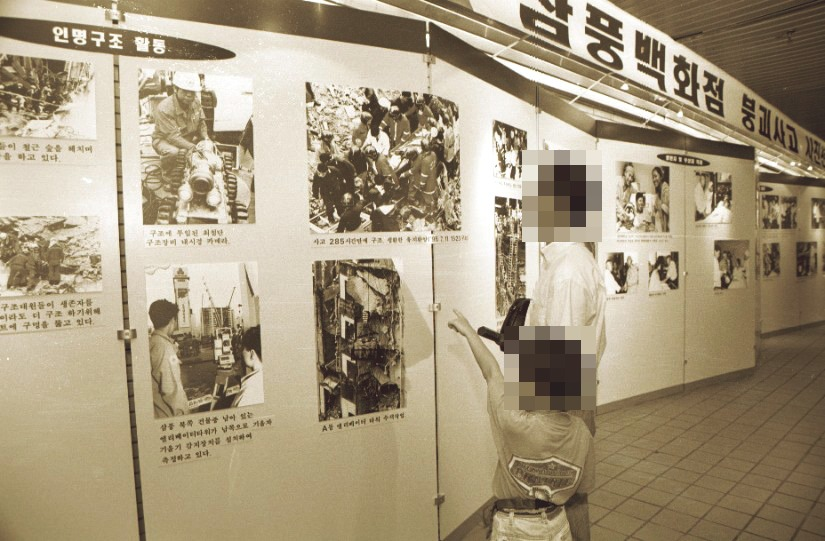
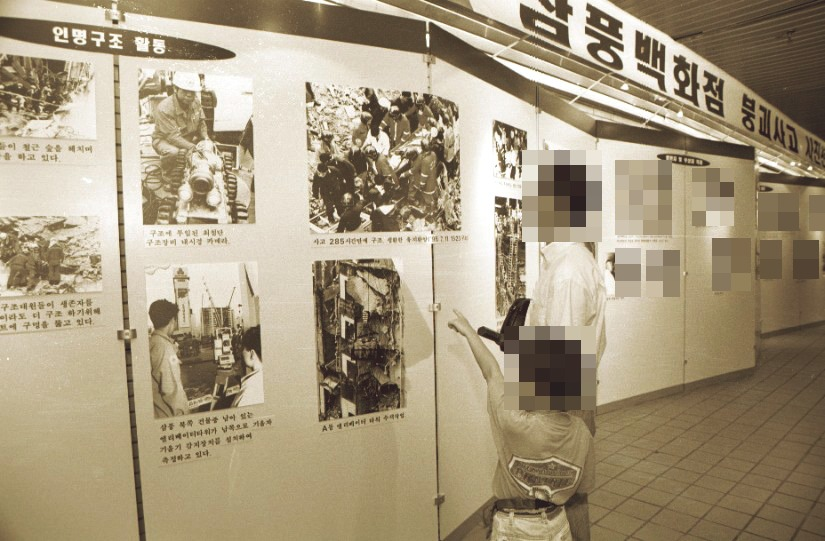
23本目 ⑤c' 疑いの決着と直す: 原寸の切り出し16枚で疑い39件を未決0に・直したのは16カット - 右の札（m23）が崩れていない B棟を指して読めた所: c218「A棟の閉めた所」・c407「まずA棟の屋上と5階の床」＋重さの札を屋上と5階の札の下へ・c614 札を色の階の高さへ（✕ も）・c513 札を7月9日のマスの左へ - 副題を写っている物に: c405（梁→ピンクの外壁）・c523（崩れた2つの棟→崩れ残った建物の両端）・c214・c714（傾いた柱）・c608（工事中の別のビル）・cb03（名前と顔を隠した掲示板）・c609／cc09 を書き分け・c201 見出し「建物の

Changed region(s): [[0.7273, 0.2957, 1.0, 0.5619]]

diff --git a/tools/cuts/c2.py b/tools/cuts/c2.py
@@ -16,7 +16,7 @@ P = ss.P
 
 PLAN = {
     'c201': dict(kind='写真',
-               plan='S52399:全体｜一覧の種類：実写｜見せ方：全面｜副題：崩れる前の三豊百貨店の外観（1995年6月）｜動き：引く（建物の全体へ）｜権利：A（公共ヌリ第1類型＋CC BY 4.0）｜出典の行：写真：ソウル特別市／ソウル研究院（서울연구데이터서비스）（公共ヌリ第1類型・CC BY 4.0）｜注：A。c101 と同じ写真の別の寄り（c101＝看板へ寄る／c201＝全体へ引く）。⑤b-7（10-19）：c101 と同じ副題だった＝終わりのコマは建物の外観の全体＝「外観」で書き分けた｜台本の画：実写 研究院 node/52399（A・c101 と別の寄り＝2つの棟と真ん中のつなぎの建物＝副題「崩れる前の三豊百貨店（1995年6月）」）',
+               plan='S52399:全体｜一覧の種類：実写｜見せ方：全面｜副題：崩れる前の三豊百貨店（1995年6月）｜動き：引く（建物の全体へ）｜権利：A（公共ヌリ第1類型＋CC BY 4.0）｜出典の行：写真：ソウル特別市／ソウル研究院（서울연구데이터서비스）（公共ヌリ第1類型・CC BY 4.0）｜注：A。c101 と同じ写真の別の寄り（c101＝看板へ寄る／c201＝全体へ引く）。⑤b-7（10-19）：c101 と同じ副題だった＝終わりのコマは建物の外観の全体＝「外観」で書き分けた｜台本の画：実写 研究院 node/52399（A・c101 と別の寄り＝2つの棟と真ん中のつなぎの建物＝副題「崩れる前の三豊百貨店（1995年6月）」）',
                src='K6-検 p.45（`중앙연결통로`）・白書 p69（「同じ大きさの2棟・真ん中にガラスの개선문 모양のつなぎ」＝新聞を引いた節）'),
     'c202': dict(kind='図解',
                plan='一覧の種類：断面｜見る向き：横から（断面）｜見た目の型：建物の断面｜注：K6-市 p.34 の描き起こし・A棟（北）と B棟（南）を色で分ける・各階の使い道の札｜台本の画：図 断面（K6-市 p.34 の断面図の描き起こし＝北の A棟・南の B棟・各階の使い道＝色を多く・この回で断面図は c202 と c209 の2回だけ）',
@@ -55,7 +55,7 @@ PLAN = {
                plan='一覧の種類：比べ｜見た目の型：比べ｜注：15センチ＝文庫本の縦｜台本の画：図 比べ 15センチ＝文庫本の縦の長さ（A6判 14.8センチ・式は §9・この回で比べの図は c213 と c806 の2回だけ）',
                src='（計算）'),
     'c214': dict(kind='写真',
-               plan='C39｜一覧の種類：実写｜見せ方：額装（BY-SA）｜副題：崩れた現場に残った柱の列（1995年）｜動き：額ごと右へ｜権利：BY-SA 4.0（本部）｜出典の行：写真：ソウル特別市 消防災難本部（CC BY-SA 4.0）｜注：#46 と同じ写真の組＝ほかで使わない｜台本の画：実写 BY-SA #39（柱＝未使用の○・額装＝副題「崩れた現場の柱（1995年）」）',
+               plan='C39｜一覧の種類：実写｜見せ方：額装（BY-SA）｜副題：瓦礫を崩すショベルと、奥に残った柱（1995年）｜動き：額ごと右へ｜権利：BY-SA 4.0（本部）｜出典の行：写真：ソウル特別市 消防災難本部（CC BY-SA 4.0）｜注：#46 と同じ写真の組＝ほかで使わない｜台本の画：実写 BY-SA #39（柱＝未使用の○・額装＝副題「崩れた現場の柱（1995年）」）',
                src='K6-R p.28〜p.29（`보가 없이 기둥 위에 받침대`・`곧바로 슬래브를 얹은 무량판구조`）'),
     'c215': dict(kind='図解',
                plan='一覧の種類：模式｜見る向き：斜めから（立体）｜見た目の型：屋上の機械｜合図：🔁 横から（断面）→斜めから（立体）（前の図 c212）｜注：冷却塔の初出（冷房の水を外の空気で冷やす）・止めて水を抜く｜台本の画：図 模式 屋上の冷却塔（冷房の水を外の空気で冷やすしくみ＝初出）を止め、水を抜く',
@@ -175,7 +175,8 @@ SPEC.update({
     "c218": dict(
         t="店の様子", s="階ごとの様子",          # ⚠ 門番 echo：「上の階の一部だけ」は字幕の1文の切り取り
         fig=("m23", dict(view="bldg", steps=[
-            dict(state=dict(closed="on"), tag=dict(t="閉めた所", d="5階の食堂の大部分・4階の貴金属", at="r1", col=J.TICK)),
+            # 🔧 ⑤c'（10-19）：右の札は B棟の右に縦に並ぶ＝「閉めた所」が崩れていない B棟の上の階を指して読めた（閉めたのは A棟）＝札に棟を書く
+            dict(state=dict(closed="on"), tag=dict(t="A棟の閉めた所", d="5階の食堂の大部分・4階の貴金属", at="r1", col=J.TICK)),
             dict(state=dict(open="on"), tag=dict(t="開いていた所", d="客と従業員は中に", at="r2", col=J.INK_W)),
             dict(state=dict(hi="low"), tag=dict(t="下の階", at="r3", col=J.INK_W))],
             rel=[dict(t="5階", src="K6-検 p47"), dict(t="4階", src="K6-検 p47")],
@@ -193,16 +194,19 @@ SPEC.update({
 _S99_2, _C208, _C216 = P("sire_52399"), P("stock/c208a"), P("stock/c216b")
 SPEC.update({
     # c201（8.6秒・聞き役の問い＋答え）＝研究院 52399 の2回目（c101 は看板へ寄る）＝真ん中の寄りから建物の全体へ引く
+    # 🔧 ⑤c'（10-19）：原寸で写るのは1つの棟の正面だけ（2つの棟は並んで見えない）＝見出し「2つの棟」→ 語りの問い（どんな形の建物か）の「建物の形」。
+    #    副題は c101 と同じ写真＝同じ副題にそろえた（記憶 feedback-subtitle-must-match-what-is-visible＝⑤b-7 の「外観」の書き分けを戻した）
     "c201": dict(photo=_S99_2, **ss.mv(_S99_2, "out", fx=0.5, fy=0.5, z=1.25), side="none",
-                 t="2つの棟", s="崩れる前の三豊百貨店の外観（1995年6月）"),
+                 t="建物の形", s="崩れる前の三豊百貨店（1995年6月）"),
     # c203（10.9秒）＝本部 #159（縦長）＝残った棟の看板の塔に下がる「5F 특설매장」の垂れ幕（どの棟の5階かは絵から言えない＝棟を名乗らない）
     "c203": dict(photo=P("c159_960"), panel=True, color=1.0, fmove=ss.fm("in"),
                  t="特設の売り場", s="5階の特設売り場の垂れ幕（崩れたあとの夜）"),
     # c208（9.6秒）＝イメージ 天井のひび（Pexels 17139756）。下の家具と右の窓を外したまま、天井のひびへ寄る（引いた側も寄せたまま＝ss.mvz）
     "c208": dict(photo=_C208, **ss.mvz(_C208, (0.34, 0.26, 1.6), (0.38, 0.2, 1.9)), side="none", t="", s=""),
     # c214（9.5秒）＝本部 #39＝崩れた現場に残った柱の列・額ごと右へ
+    # 🔧 ⑤c'（10-19）：原寸で手前の主はショベルと隊員・柱は奥に2〜3本（「列」とは言えない）＝写っている物で。c705（#40＝同じショベルの別の写真）と書き分け
     "c214": dict(photo=P("c39_960"), panel=True, color=1.0, fmove=ss.fm("r"),
-                 t="柱の作り", s="崩れた現場に残った柱の列（1995年）"),
+                 t="柱の作り", s="瓦礫を崩すショベルと、奥に残った柱（1995年）"),
     # c216（9.1秒）＝イメージ ガスの元栓（Pexels 7616004・黄色いバルブ）＝ハンドルへゆっくり寄る（左右 5% の暗くぼけた背景＝SLIDE_NOT_MOUNT）
     "c216": dict(photo=_C216, **ss.mv(_C216, "in", fx=0.42, fy=0.42, z=1.15), side="none", t="", s=""),
     # c217（6.9秒）＝本部 #95（縦長）＝1階の夏の催しの垂れ幕・額ごと上へ

diff --git a/tools/cuts/c6.py b/tools/cuts/c6.py
@@ -37,7 +37,7 @@ PLAN = {
                plan='一覧の種類：模式｜見た目の型：書類｜注：構造の計算を20回あまり継ぎ足す（紙が継ぎ足されていく）｜台本の画：図 模式 構造の計算を20回あまり継ぎ足す（紙が継ぎ足されていく）',
                src='大96 理由1（`20여 회에 걸쳐서 수시로 구조계산을 추가하여`・`건축계획을 무계획적으로`）'),
     'c608': dict(kind='写真',
-               plan='S52398｜一覧の種類：実写｜見せ方：全面｜副題：工事中のビルと、奥の瑞草洞の法院（1995年）｜動き：左へ｜権利：A（公共ヌリ第1類型＋CC BY 4.0）｜出典の行：写真：ソウル特別市／ソウル研究院（서울연구데이터서비스）（公共ヌリ第1類型・CC BY 4.0）｜注：台本どおり（語りの物＝5階の使い道は写らない＝場所の写真）。✅ 取得の後に見た＝手前に鉄骨の工事中のビル（三豊ではない＝副題で取り違えない）｜台本の画：実写 研究院 node/52398（工事中のビルの向こうの法院＝A）',
+               plan='S52398｜一覧の種類：実写｜見せ方：全面｜副題：工事中の別のビルと、奥の瑞草洞の法院（1995年）｜動き：左へ｜権利：A（公共ヌリ第1類型＋CC BY 4.0）｜出典の行：写真：ソウル特別市／ソウル研究院（서울연구데이터서비스）（公共ヌリ第1類型・CC BY 4.0）｜注：台本どおり（語りの物＝5階の使い道は写らない＝場所の写真）。✅ 取得の後に見た＝手前に鉄骨の工事中のビル（三豊ではない＝副題で取り違えない）｜台本の画：実写 研究院 node/52398（工事中のビルの向こうの法院＝A）',
                src='K6-R p.29（`허가도서상으로는 롤러스케이트장`）・大96 理由1（`운동시설이던 5층을 전문식당가로 용도변경`）'),
     'c609': dict(kind='図解',
                plan='一覧の種類：模式｜見る向き：斜めから（立体）｜見た目の型：棟の立体｜合図：🔁 上から→斜めから（立体）（前の図 c602）｜注：5階の使い道（許可＝運動の施設／工事の図面と実際＝食堂街）｜台本の画：図 模式 5階の使い道（許可の図面＝運動の施設／工事の図面と実際＝食堂街・この図は c609 と c819 の2回だけ）',
@@ -126,7 +126,7 @@ SPEC.update({
     ),
     # c609（2行）＝5階の使い道（許可＝運動の施設・実際＝食堂街）→ 判決：柱と床の強さは食堂に合わせるべきだった → 聞き役
     "c609": dict(
-        t="見せかけの許可", s="判決の判断",
+        t="見せかけの許可", s="判決が求めた強さ",        # 🔧 ⑤c'（10-19）：cc09（別の図）と同じ副題「判決の判断」だった＝中身で書き分け
         fig=("m23", dict(view="bldg", start=dict(hi="a5", use5="both"), steps=[
             dict(tag=dict(t="判決", d="強さは食堂に合わせる", at="r1", col=J.ROLE["state"])), dict()],
             note="階の使い道は判決と国会の報告（形は模式）", src=ss.src(["大96 p1", "K6-R p29"]))),
@@ -143,8 +143,10 @@ SPEC.update({
     "c614": dict(
         t="先に使う承認", s="建物の一部",
         fig=("m23", dict(view="bldg", start=dict(under="on"), steps=[
-            dict(state=dict(hi="temp"), tag=dict(t="仮の使用の承認", d="1989年11月", at="r1", col=J.ROLE["ward"])),
-            dict(state=dict(chk="on"), tag=dict(t="途中の検査なし", at="r2", col=J.ALERT)), dict()],
+            # 🔧 ⑤c'（10-19）：札が r1・r2（B棟の上の階の高さ）だと色の無い4・5階を指して読めた（承認は地下1階〜地上3階）＝1段ずつ下げて色の階の高さへ
+            #    （✕ の印は mech23 の chk で札に合わせて下げた）
+            dict(state=dict(hi="temp"), tag=dict(t="仮の使用の承認", d="1989年11月", at="r2", col=J.ROLE["ward"])),
+            dict(state=dict(chk="on"), tag=dict(t="途中の検査なし", at="r3", col=J.ALERT)), dict()],
             rel=[dict(t="1989年11月", src="K6-区 p43")],
             note="使ってよい階は区の報告（形は模式）", src=ss.src(["K6-区 p43", "K6-R p31", "K6-検 p48"]))),
     ),
@@ -176,8 +178,9 @@ SPEC.update({
     "c605": dict(photo=P("c147_960"), panel=True, color=1.0, fmove=ss.fm("l"),
                  t="はじめの計画", s="残った棟と救助の車（1995年）"),
     # c608（7.5秒）＝研究院 52398＝手前の工事中のビル（三豊ではない）と奥の法院・全面で左へ
+    # 🔧 ⑤c'（10-19）：見出し「許可のときの5階」の下で、手前の工事中のビルが三豊の工事の写真に見えた＝副題で「別のビル」と言う
     "c608": dict(photo=_S98, **ss.mv(_S98, "l"), side="none",
-                 t="許可のときの5階", s="工事中のビルと、奥の瑞草洞の法院（1995年）"),
+                 t="許可のときの5階", s="工事中の別のビルと、奥の瑞草洞の法院（1995年）"),
     # c610（8.7秒）＝本部 #41＝崩れ残った建物の断面（階が数えられる）・額ごと上へ
     "c610": dict(photo=P("c41_960"), panel=True, color=1.0, fmove=ss.fm("u"),
                  t="4階建て説", s="崩れ残った建物の断面（1995年）"),
@@ -191,7 +194,9 @@ SPEC.update({
     "c616": dict(photo=P("c100_960"), panel=True, color=1.0, fmove=ss.fm("u"),
                  t="12月1日の開店", s="はしご車と垂れ幕（崩れたあと）"),
     # c617（10.4秒）＝イメージ 広い売り場の吹き抜けとエスカレーター（Pexels 27452439）。右上の奥の掲示（字）を外したまま、下りのエスカレーターへ寄る
-    "c617": dict(photo=_C617, **ss.mvz(_C617, (0.45, 0.6, 1.25), (0.47, 0.66, 1.45)), side="none", t="", s=""),
+    # 🔧 ⑤c'（10-19）：尺の頭の左上に広告の人の顔（約40px）が写った（⑤b-7 の at の頭・原寸）＝頭の窓を終わりの窓の内側に置く
+    #    （寄り 1.55 で同じ所から終わりの 1.45 へわずかに引く＝終わりのコマに無い物〈広告・右上の奥の掲示〉は一度も入らない・終わりのコマは同じ）
+    "c617": dict(photo=_C617, **ss.mvz(_C617, (0.47, 0.70, 1.55), (0.47, 0.66, 1.45)), side="none", t="", s=""),
     # c619（7.9秒）＝本部 #71＝斜めに突き出した太い柱・額ごと寄る
     "c619": dict(photo=P("c71_960"), panel=True, color=1.0, fmove=ss.fm("in"),
                  t="次は柱", s="斜めに突き出した太い柱（1995年）"),

diff --git a/tools/cuts/cb.py b/tools/cuts/cb.py
@@ -22,7 +22,7 @@ PLAN = {
                plan='一覧の種類：模式｜見た目の型：札と線｜注：届けの窓口が2つ → 1つにまとめる途中で207人から410人へ｜台本の画：図 模式 届けの窓口が2つ（市の対策本部と区の案内所 → 1つにまとめる途中で207人から410人へ）',
                src='K6-R p.32（`실종자 수를 하루 만에 207명에서 410명으로 수정 발표`）'),
     'cb03': dict(kind='写真',
-               plan='H104m｜一覧の種類：実写｜見せ方：額装（小さい）｜副題：行方を探す掲示板（1995年）｜動き：額の中で左へ｜権利：A（公共ヌリ第1類型）｜出典の行：写真：ソウル歴史編纂院（公共ヌリ第1類型）・改変：顔と名前にモザイク｜注：公共ヌリ第1類型。🔴 隠した版（ref/ep10/missing_board_01.jpg＝顔と名前にモザイク）を使う。出典の行に「改変：顔と名前にモザイク」｜台本の画：実写 KOGL 2301030104（人を探す掲示板＝顔写真と名前にモザイク・出典に「改変：顔と名前にモザイク」＝副題「行方を探す掲示板（1995年）」）',
+               plan='H104m｜一覧の種類：実写｜見せ方：額装（小さい）｜副題：名前と顔を隠した、行方を探す掲示板（1995年）｜動き：額の中で左へ｜権利：A（公共ヌリ第1類型）｜出典の行：写真：ソウル歴史編纂院（公共ヌリ第1類型）・改変：顔と名前にモザイク｜注：公共ヌリ第1類型。🔴 隠した版（ref/ep10/missing_board_01.jpg＝顔と名前にモザイク）を使う。出典の行に「改変：顔と名前にモザイク」｜台本の画：実写 KOGL 2301030104（人を探す掲示板＝顔写真と名前にモザイク・出典に「改変：顔と名前にモザイク」＝副題「行方を探す掲示板（1995年）」）',
                src='K6-区b p.58（`신원확인 후 신고접수`）・K6-区b p.59（`신분확인 절차 없이 구두 또는 전화로`）・K6-市b p.54（`보상금을 받기 위한 허위신고`）'),
     'cb04': dict(kind='図解',
                plan='一覧の種類：模式｜見た目の型：数の並び｜注：届け1,566件 → 確かめた1,485件 → 残り81人｜台本の画：図 模式 届けから確かめるまで（届け1,566件 → 確かめた1,485件 → 残り81人＝8月8日の時点）',
@@ -31,7 +31,7 @@ PLAN = {
                plan='一覧の種類：箱｜見た目の型：箱｜注：1995年10月の数（箱の2回目）｜台本の画：図 箱 1995年10月の数（亡くなった人501人＝遺体で確かめた471人＋亡くなったと認めた30人＝箱の2回目）',
                src='国監内 p.24（`사망자 501명(사망확인 471명, 사망인정 30명)`）'),
     'cb06': dict(kind='写真',
-               plan='H077｜一覧の種類：実写｜見せ方：額装（小さい）｜副題：事故の写真展（1996年6月）｜動き：額の中で寄る｜権利：A（公共ヌリ第1類型）｜出典の行：写真：ソウル歴史編纂院（公共ヌリ第1類型）｜注：公共ヌリ第1類型。✅ 見る男性と子どもの横顔＝私人＝顔だけモザイク（出典の行に「改変：顔にモザイク」・10-18）｜台本の画：実写 歴史編纂院 2301030077（1996年の写真展＝公共ヌリ第1類型＝副題「事故の写真展（1996年）」）',
+               plan='H077｜一覧の種類：実写｜見せ方：額装（小さい）｜副題：事故の写真展（1996年6月）｜動き：額の中で寄る｜権利：A（公共ヌリ第1類型）｜出典の行：写真：ソウル歴史編纂院（公共ヌリ第1類型）｜注：公共ヌリ第1類型。✅ 見る男性と子どもの横顔＝私人＝顔だけモザイク（出典の行に「改変：顔にモザイク」・10-18）＋🔧 ⑤c\'（10-19）右の展示の写真9枚（人の顔）も升目に（mask23.tsv）｜台本の画：実写 歴史編纂院 2301030077（1996年の写真展＝公共ヌリ第1類型＝副題「事故の写真展（1996年）」）',
                src='国監内 p.24（`신고실종자관리 6명`）'),
     'cb07': dict(kind='図解',
                plan='一覧の種類：模式｜見た目の型：書類｜注：戸籍の整理（遺体の見つからない30人・人の形は使わない）｜台本の画：図 模式 戸籍の整理（遺体の見つからない30人＝11月29日・人の形は使わない）',
@@ -176,7 +176,7 @@ SPEC.update({
                  t="数を確かめる", s="瑞草区の区民会館の合同の焼香所（1995年7月）"),
     # cb03（10.7秒）＝歴史編纂院 104 の隠した版（10本目 `ref/ep10/missing_board_01.jpg`＝顔と名前にモザイク）＝額の中で左へ
     "cb03": dict(photo=_H104, panel=True, cam={"from": ss.pf(_H104, 0.6, 0.5, 1.12), "to": ss.pf(_H104, 0.4, 0.5, 1.12)},
-                 t="届けの受け付け", s="行方を探す掲示板（1995年）"),
+                 t="届けの受け付け", s="名前と顔を隠した、行方を探す掲示板（1995年）"),   # 🔧 ⑤c'（10-19）：画面のほぼ全部が升目＝何の絵かを副題で言う
     # cb06（8.7秒）＝歴史編纂院 077（見る男性と子どもの顔だけモザイク＝x 0.65〜0.72）＝額の中で左の展示の板へ寄る（顔へ寄らない）
     "cb06": dict(photo=_H077, panel=True, cam={"from": ss.pf(_H077, 0.5, 0.5, 1.0), "to": ss.pf(_H077, 0.35, 0.45, 1.15)},
                  t="国政監査", s="事故の写真展（1996年6月）"),

diff --git a/tools/cuts/c4.py b/tools/cuts/c4.py
@@ -28,7 +28,7 @@ PLAN = {
                plan='一覧の種類：模式｜見る向き：横から（断面）｜見た目の型：床の断面｜合図：🔁 上から→横から（断面）（前の図 c403）｜注：押し抜きのせん断（段を追って）＝🔁 上から→横から｜台本の画：図 模式 押し抜きのせん断（柱のまわりの床が、柱の形に沿って抜け落ちる＝段を追って）',
                src='K6-R p.28（`기둥으로부터 이탈하면서(전단파괴현상)`）・大96 理由1（`펀칭전단`）'),
     'c405': dict(kind='写真',
-               plan='C8｜一覧の種類：実写｜見せ方：額装（BY-SA）｜副題：崩れた床の梁と瓦礫（1995年）｜動き：額ごと左へ｜権利：BY-SA 4.0（本部）｜出典の行：写真：ソウル特別市 消防災難本部（CC BY-SA 4.0）｜台本の画：実写 BY-SA #8（崩れた断面＝未使用の○・額装＝副題「崩れた床の断面（1995年）」）',
+               plan='C8｜一覧の種類：実写｜見せ方：額装（BY-SA）｜副題：崩れたピンクの外壁と瓦礫（1995年）｜動き：額ごと左へ｜権利：BY-SA 4.0（本部）｜出典の行：写真：ソウル特別市 消防災難本部（CC BY-SA 4.0）｜台本の画：実写 BY-SA #8（崩れた断面＝未使用の○・額装＝副題「崩れた床の断面（1995年）」）',
                src='大96 理由1（`기둥으로부터 주변 슬래브가 이탈`）'),
     'c406': dict(kind='写真',
                plan='🔧 C207｜一覧の種類：実写｜見せ方：額装（BY-SA）｜副題：折れた柱と、その前の隊員（1995年）｜動き：額ごと寄る｜権利：BY-SA 4.0（own＝作者は個人）｜出典の行：写真：作者欄のとおり（src/credits_private.tsv）／CC BY-SA 4.0｜注：🔧 #42（#41・#72・#97 と同じ写真の組＝c610 で #41）→ #207（語り「柱は折れ曲がっていった」）｜台本の画（🔧映像方針で替えた＝元の予定）：実写 BY-SA #42（断面＝未使用の○・額装）',
@@ -116,9 +116,11 @@ SPEC.update({
         t="崩れた順", s="上の階から順に",          # ⚠ 門番 dup：「国会の報告の判断」は下の注の写し
         # ⚠ geom_gap：start に a="on" だと崩れたあとも「食堂街」「売り場」の札が残り、重さの印の枠に 3.1px＝階の使い道の札は出さない（c202 で見せた）
         fig=("m23", dict(view="section", steps=[
-            dict(state=dict(fall="top"), tag=dict(t="まず屋上と5階の床", at="r1", col=J.ALERT)),
+            # 🔧 ⑤c'（10-19）：右の札は B棟の右に縦に並ぶ＝崩れていない B棟を指して読めた・「重さが増えた階」が B棟の1階の高さにあった
+            #    （重さの印は A棟の屋上と5階）＝札に棟を書き、重さの札は屋上と5階の札のすぐ下（r1 と r2 のあいだ）へ上げて階の名を添える
+            dict(state=dict(fall="top"), tag=dict(t="まずA棟の屋上と5階の床", at="r1", col=J.ALERT)),
             dict(state=dict(fall="all"), tag=dict(t="下の階が次々に", at="r2", col=J.ALERT)),
-            dict(state=dict(load="on"), tag=dict(t="重さが増えた階", at="r3", col=J.ALERT))],
+            dict(state=dict(load="on"), tag=dict(t="重さが増えた階（屋上と5階）", at=(1360.0, 414.0, "start", 470.0), col=J.ALERT))],
             rel=[dict(t="5階", src="K6-R p28")],
             note="崩れる順は国会の報告の判断（形は模式・人は描かない）", src=ss.src(["K6-R p28", "K6-検 p45", "K6-市 p34"]))),
     ),
@@ -159,8 +161,9 @@ SPEC.update({
     "c401": dict(photo=P("c74_960"), panel=True, color=1.0, fmove=ss.fm("r"), card_mix=0,
                  t="崩れはじめ", s="クレーンの入った崩れた現場（1995年）"),
     # c405（9.2秒）＝本部 #8＝崩れた床の梁と瓦礫・額ごと左へ
+    # 🔧 ⑤c'（10-19）：原寸でピンクの部材は青い帯の入った外壁（梁ではない）＝台本「梁を使わない作り」とぶつかる「梁」を外した
     "c405": dict(photo=P("c8_960"), panel=True, color=1.0, fmove=ss.fm("l"),
-                 t="床が先に", s="崩れた床の梁と瓦礫（1995年）"),
+                 t="床が先に", s="崩れたピンクの外壁と瓦礫（1995年）"),
     # c406（8.3秒）＝個人名義 #207＝折れた柱と、その前の隊員・額ごと寄る
     "c406": dict(photo=P("c207"), panel=True, color=1.0, fmove=ss.fm("in"),
                  t="となりの柱へ", s="折れた柱と、その前の隊員（1995年）"),

diff --git a/tools/cuts/c5.py b/tools/cuts/c5.py
@@ -82,7 +82,7 @@ PLAN = {
                plan='C133｜一覧の種類：実写｜見せ方：額装（BY-SA）｜副題：輪になって作業する救助隊（1995年）｜動き：額ごと左へ｜権利：BY-SA 4.0（本部）｜出典の行：写真：ソウル特別市 消防災難本部（CC BY-SA 4.0）｜台本の画：実写 BY-SA #133（救助＝未使用の○・額装）',
                src='K6-市 p.34（7.19 24:00 で届け1,566）・K6-市b p.53（行方不明の届けの管理＝95.8.8 24:00 でも届け1,566＝確かめの係 Q4）'),
     'c523': dict(kind='写真',
-               plan='🔧 C170｜一覧の種類：実写｜見せ方：額装（BY-SA）｜副題：クレーンと崩れた2つの棟の断面（1995年）｜動き：額ごと右へ｜権利：BY-SA 4.0（本部）｜出典の行：写真：ソウル特別市 消防災難本部（CC BY-SA 4.0）｜注：🔧 #140（#133 と似た「輪になる」絵）→ #170（語り「崩れたこの建物は、どう建てられたのか」）｜台本の画（🔧映像方針で替えた＝元の予定）：実写 BY-SA #140（救助＝未使用の○・額装）',
+               plan='🔧 C170｜一覧の種類：実写｜見せ方：額装（BY-SA）｜副題：クレーンと、崩れ残った建物の両端（1995年）｜動き：額ごと右へ｜権利：BY-SA 4.0（本部）｜出典の行：写真：ソウル特別市 消防災難本部（CC BY-SA 4.0）｜注：🔧 #140（#133 と似た「輪になる」絵）→ #170（語り「崩れたこの建物は、どう建てられたのか」）｜台本の画（🔧映像方針で替えた＝元の予定）：実写 BY-SA #140（救助＝未使用の○・額装）',
                src='—'),
 }
 
@@ -133,7 +133,8 @@ SPEC.update({
         t="救出の日", s="7月9日の朝",
         fig=("m23", dict(view="cal", start=dict(set="rescue", d0="on"), steps=[
             dict(state=dict(d1="on"), tag=dict(t="埋まってから230時間", at="low", col=J.AMBER)),
-            dict(tag=dict(t="生きて助け出された", at="r"))],
+            # 🔧 ⑤c'（10-19）：右の外（at="r"）だと7月15日（土曜の列）のマスの隣＝15日を指して読めた（印は日曜の列の7月9日）＝7月9日のマスの左の外へ
+            dict(tag=dict(t="生きて助け出された", at=(415.0, 668.0, "end", 300.0)))],
             rel=[dict(t="230時間", src="白書 p643")], note="日付と時間は白書（ソウル市の白書 p.643）", src=ss.src(["白書 p643"]))),
     ),
     # c518（2行）＝7月19日の時点：救助された人 932人 → 76の病院に380人・見つかった遺体 459人
@@ -208,6 +209,7 @@ SPEC.update({
     "c522": dict(photo=P("c133_960"), panel=True, color=1.0, fmove=ss.fm("l"),
                  t="行方不明の届け", s="輪になって作業する救助隊（1995年）"),
     # c523（6.1秒）＝本部 #170＝クレーンと崩れた2つの棟の断面・額ごと右へ
+    # 🔧 ⑤c'（10-19）：原寸で写るのは崩れ残った建物の両端（どちらの棟かは絵から言えない）＝台本「崩れたのは A棟と通路」とぶつかる「崩れた2つの棟」を外した
     "c523": dict(photo=P("c170_960"), panel=True, color=1.0, fmove=ss.fm("r"),
-                 t="どう建てたか", s="クレーンと崩れた2つの棟の断面（1995年）"),
+                 t="どう建てたか", s="クレーンと、崩れ残った建物の両端（1995年）"),     # c610「崩れ残った建物の断面」と書き分け
 })

diff --git a/tools/cuts/c7.py b/tools/cuts/c7.py
@@ -55,7 +55,7 @@ PLAN = {
                plan='一覧の種類：模式｜見る向き：上から｜見た目の型：上から見た床｜合図：🔁 横から（断面）→上から（前の図 c706）｜注：ドロップパネルが薄い所と無い所（A棟5階の北側）｜台本の画：図 模式 ドロップパネルが薄い所と、無い所（A棟5階の北側＝c703 と別の絵）',
                src='大96 理由1（`15㎝ 두께의 지판시공이 누락`）・白書 p88（「A棟5階の北側コアの中央はドロップパネルが無い」＝検察の資料と新聞を引いた節）'),
     'c714': dict(kind='写真',
-               plan='🔧 C83｜一覧の種類：実写｜見せ方：額装（BY-SA）｜副題：倒れた太い柱の折れ口（1995年）｜動き：額ごと寄る｜権利：BY-SA 4.0（本部）｜出典の行：写真：ソウル特別市 消防災難本部（CC BY-SA 4.0）｜注：🔧 #91（#80 と同じ「9」の柱）→ #83。日付の焼き込み｜台本の画（🔧映像方針で替えた＝元の予定）：実写 BY-SA #91（柱＝未使用の○・額装）',
+               plan='🔧 C83｜一覧の種類：実写｜見せ方：額装（BY-SA）｜副題：傾いた太い柱と、むき出しの鉄筋（1995年）｜動き：額ごと寄る｜権利：BY-SA 4.0（本部）｜出典の行：写真：ソウル特別市 消防災難本部（CC BY-SA 4.0）｜注：🔧 #91（#80 と同じ「9」の柱）→ #83。日付の焼き込み｜台本の画（🔧映像方針で替えた＝元の予定）：実写 BY-SA #91（柱＝未使用の○・額装）',
                src='K6-R p.29（`정상위치(표면에서 2～3㎝임)`）'),
     'c715': dict(kind='図解',
                plan='一覧の種類：模式｜見る向き：横から（断面）｜見た目の型：床の断面｜合図：🔁 上から→横から（断面）（前の図 c713）｜注：上の鉄筋の正しい位置と沈んだ位置＝🔁 上から→横から｜台本の画：図 模式 上の鉄筋の正しい位置と、沈んだ位置（床の断面）',
@@ -181,8 +181,9 @@ SPEC.update({
     "c711": dict(photo=P("c90_960"), panel=True, color=1.0, fmove=ss.fm("r"),
                  t="同じ2本", s="瓦礫の中に立つ折れた柱と、放水する隊員（1995年）"),
     # c714（10.2秒・聞き役の問い＋答え）＝本部 #83＝倒れた太い柱の折れ口・額ごと寄る
+    # 🔧 ⑤c'（10-19）：原寸で真ん中の太い柱は倒れきらず斜めに傾き、上の端に鉄筋がむき出し＝写っている形で（語り＝鉄筋の位置）
     "c714": dict(photo=P("c83_960"), panel=True, color=1.0, fmove=ss.fm("in"),
-                 t="鉄筋の位置", s="倒れた太い柱の折れ口（1995年）"),
+                 t="鉄筋の位置", s="傾いた太い柱と、むき出しの鉄筋（1995年）"),
     # c716（10.1秒）＝本部 #172（縦長）＝煙の中の折れた柱・額ごと上へ
     "c716": dict(photo=P("c172_960"), panel=True, color=1.0, fmove=ss.fm("u"),
                  t="鉄筋の台", s="煙の中の折れた柱（1995年）"),

diff --git a/tools/cuts/cd.py b/tools/cuts/cd.py
@@ -31,7 +31,7 @@ PLAN = {
                plan='S31733｜一覧の種類：実写｜見せ方：額装（縦長）｜副題：跡地の空き地と、さびた鉄の柵（2000年2月）｜動き：額の中で上へ｜権利：A（公共ヌリ第1類型＋CC BY 4.0）｜出典の行：写真：ソウル特別市／ソウル研究院（서울연구데이터서비스）（公共ヌリ第1類型・CC BY 4.0）｜注：A（研究院 2000-02）。✅ 縦長＝額装｜台本の画：実写 研究院「삼풍백화점자리」node/31733（2000-02・跡地の空き地＝A）',
                src='報道（跡地の今＝高層の住まいと店の建物・2004年に完成＝確かめの係 Q3・名前は言わない）'),
     'cd06': dict(kind='写真',
-               plan='H100｜一覧の種類：実写｜見せ方：額装（小さい）｜副題：慰霊塔の除幕（1998年）｜動き：額の中で寄る｜権利：A（公共ヌリ第1類型）｜出典の行：写真：ソウル歴史編纂院（公共ヌリ第1類型）｜注：公共ヌリ第1類型。✅ 席の人は後ろ姿（10-18）。控えの 2301030101 は遺族の顔と碑の名前の寄り＝使わない｜台本の画：実写 歴史編纂院 2301030100（慰霊塔の除幕・1998＝公共ヌリ第1類型＝副題「慰霊塔の除幕（1998年）」・私人の顔が写るなら顔だけモザイク）',
+               plan='H100｜一覧の種類：実写｜見せ方：額装（小さい）｜副題：慰霊塔の除幕（1998年）｜動き：額の中で寄る｜権利：A（公共ヌリ第1類型）｜出典の行：写真：ソウル歴史編纂院（公共ヌリ第1類型）・改変：顔にモザイク｜注：公共ヌリ第1類型。✅ 席の人は後ろ姿（10-18）→ 🔧 ⑤c\'（10-19）原寸で横顔と立つ人の正面が見分けられる大きさ＝顔だけモザイク21か所（mask23.tsv）。控えの 2301030101 は遺族の顔と碑の名前の寄り＝使わない｜台本の画：実写 歴史編纂院 2301030100（慰霊塔の除幕・1998＝公共ヌリ第1類型＝副題「慰霊塔の除幕（1998年）」・私人の顔が写るなら顔だけモザイク）',
                src='歴史編纂院 2301030100（写真の説明）・報道（公園の名前＝2022年に양재시민의숲 → 매헌시민의숲＝確かめの係 Q2）'),
     'cd07': dict(kind='図解',
                plan='一覧の種類：模式｜見た目の型：札｜注：2026年の新しい造形の計画（作品を選んだ＝2026年6月）｜台本の画：図 模式 2026年の新しい造形の計画（作品を選んだ＝2026年6月・置く場所の名は語らない）',

diff --git a/tools/cuts/ss.py b/tools/cuts/ss.py
@@ -521,7 +521,8 @@ NG_PHOTOS: dict[str, str] = {}
 #       元の画像の画素）→ 束（`qa_out/ep23_assets.py build`）で升 14px の升目にした。歴史編纂院 104 は10本目に顔と名前を隠した版をそのまま使う
 NEEDS_MASK: dict[str, str] = {
     P("sire_52400"): "研究院 52400（c104・cd08）＝手前の右を歩く男性（私人）の横顔だけモザイク（左の男性は後ろ姿）",
-    P("hs_2301030077_0"): "歴史編纂院 077（cb06）＝写真展を見る大人の男性と子ども（私人）の顔だけモザイク",
+    P("hs_2301030077_0"): "歴史編纂院 077（cb06）＝写真展を見る大人の男性と子ども（私人）の顔だけモザイク＋⑤c'（10-19）右の展示の写真9枚（人の顔）",
+    P("hs_2301030100_0"): "歴史編纂院 100（cd06）＝⑤c'（10-19）慰霊塔の除幕の参列者・立っている人・たすきの2人・カメラの人（私人）の顔だけモザイク（後ろ姿は隠さない）",
     P("missing_board_01"): "歴史編纂院 104（cb03）＝行方を探す掲示板の顔写真と名前を隠した版（10本目 `ref/ep10/missing_board_01.jpg`）",
 }
 

diff --git a/tools/cuts/cc.py b/tools/cuts/cc.py
@@ -123,7 +123,7 @@ SPEC.update({
     ),
     # cc09（2行）＝市の職員は、百貨店を開く承認の手続きで、現場を見ないまま → 見たことにした報告の書類を作っていた。判決はこれを不正な仕事と認めている
     "cc09": dict(
-        t="見ていない現場", s="判決の判断",
+        t="見ていない現場", s="判決が認めた不正",        # 🔧 ⑤c'（10-19）：c609（別の図）と同じ副題「判決の判断」だった＝中身で書き分け
         fig=("m23", dict(view="fake", steps=[dict(state=dict(site="on")),
                                              dict(state=dict(doc="on"), tag=dict(t="不正な仕事", d="判決", at="r", col=J.ROLE["state"]))],
                          note="書類と店の形は模式（判決・検察の報告の別紙3）", src=ss.src(["大96 p1", "K6-検 p53"]))),

diff --git a/tools/mech23.py b/tools/mech23.py
@@ -1978,8 +1978,8 @@ def bldg_extra_stage(prev, st):
         s.append(_arrow(xr - 40, y - 9, xr - 8, y - 9, A_C, 4, 12))
     if _on(prev, st, "q5"):                 # ⚠ 帯の中・右は実際の札の場所／右の外は B棟の前の面＝A棟の屋上の面の上
         s.append(_qmark(640.0, 385.0, 60, J.AMBER))
-    if _on(prev, st, "chk"):
-        s.append(_xmark(1420.0, 550.0, 28.0, J.ALERT, 9))
+    if _on(prev, st, "chk"):                # 🔧 ⑤c'（10-19）：c614 の札「途中の検査なし」を r2→r3 へ下げた＝✕ も y 550→680（札の左・色の階の高さ）
+        s.append(_xmark(1420.0, 680.0, 28.0, J.ALERT, 9))
     if _on(prev, st, "weak"):               # 細い柱（A棟の前の面に赤の破線＝場所と本数は模式）
         x0, x1 = bl_x("a")
         for k in range(1, 5):

diff --git a/qa_out/ep23_suspects.md b/qa_out/ep23_suspects.md
@@ -5,42 +5,42 @@
 
 | カット | 理由 | 出どころ | 原寸で見たか | 決着 |
 |---|---|---|---|---|
-| c201 | E 副題：同じ写真 sire_52399 を c101 と別の言い方で呼ぶ（c101「崩れる前の三豊百貨店（1995年6月）」・c201「崩れる前の三豊百貨店の外観（1995年6月）」）＝記憶の決め「同じ写真は同じ副題」と逆（⑤b-7 所見5で書き分けた）＝決め方：机上（どちらにそろえるか） |  |  |  |
-| c609 | E 副題：別の図（c609＝m23:bldg・cc09＝m23:fake）なのに副題が同じ「判決の判断」＝実見の違い（形・数・位置）で書き分け＝決め方：机上＋シートの絵 |  |  |  |
-| c201 | D 見え方：見出し「2つの棟」×終わりのコマは1つの棟の側面の外観（2つの棟が並んで見えない・640px）＝原寸で（⑤b-7 §5-6 の持ち越し）＝決め方：原寸→見えなければ見出しを替える |  |  |  |
-| c208 | C 原寸：イメージの写真の寄り1.9倍のやわらかさ（⑤b-7 §5-5）＋終わりのコマの下端に窓（扉）の枠の上端が入る（PLAN の注「部屋の家具と窓は外す」） |  |  |  |
-| c214 | E 副題：「崩れた現場に残った柱の列（1995年）」×640px ではショベル・隊員・煙が主で柱の列が見えない＝決め方：原寸で柱の列が写るか（無ければ写っている物で副題） |  |  |  |
-| c218 | D 見え方：右の札3つ（閉めた所・開いていた所・下の階）が色の見本も引き出し線も無く B棟の5・4・3階の高さに並ぶ＝B棟を指して読める（閉めたのは A棟5階と4階の貴金属）＝決め方：SPEC の札の座標＋原寸 |  |  |  |
-| c105 | C 事実：副題「崩れた北の棟と、残った南の棟」の南北＝PLAN の注「南北の名乗りは ⑤b で焼いた絵を原寸で」の決着の記録が引き継ぎ（⑤b-1〜⑤b-7）に見当たらない＝決め方：記録を探す→無ければ原寸（看板の棟・崩れた側の位置） |  |  |  |
-| c307 | C 原寸：ハングル（Noto Sans KR）の字形と下線（640px では正しく見える）＝⑤b-3 §5-7 の持ち越し |  |  |  |
-| c311 | C 原寸：イメージの写真の寄り1.7倍のやわらかさ（⑤b-7 §5-5）＋終わりのコマの右上の隅に木の端らしき物（PLAN の注「上の椰子の木は外す」） |  |  |  |
-| c405 | E 副題×台本：「崩れた床の梁と瓦礫」の「梁」が台本の「柱と柱をつなぐ梁を使わない作り」（c214・c404・c408 の語り）とぶつかる＝写っているピンクの部材は外壁かもしれない＝決め方：原寸で写っている物→副題 |  |  |  |
-| c407 | D 見え方：右の札3つ（まず屋上と5階の床・下の階が次々に・重さが増えた階）が B棟の右の端に B棟の5・3・1階の高さで並ぶ＝崩れていない B棟を指して読める／「重さが増えた階」が1階の高さ（語りは屋上と5階）＝決め方：SPEC の札の座標＋原寸（c218 と同じ型） |  |  |  |
-| c410 | E 副題・重なり：c102 と同じ向きの空撮（上から穴・左右にピンクの壁）＝dHash 37/64・aHash 91/256＝別の写真だが構図が似る＝PLAN の注「c102 と同じ構図でないかを取得の後に照合」の決着の記録なし＝決め方：原寸で並べて副題の書き分け（c102「崩れた北の棟の跡」・c410「地下まで抜けた穴」） |  |  |  |
+| c201 | E 副題：同じ写真 sire_52399 を c101 と別の言い方で呼ぶ（c101「崩れる前の三豊百貨店（1995年6月）」・c201「崩れる前の三豊百貨店の外観（1995年6月）」）＝記憶の決め「同じ写真は同じ副題」と逆（⑤b-7 所見5で書き分けた）＝決め方：机上（どちらにそろえるか） |  | ✓ | 原寸（crop09・頭と終わり）：1つの棟の正面だけ（2つの棟は並ばない）→見出し「建物の形」・副題を c101 と同じ「崩れる前の三豊百貨店（1995年6月）」に（直した） |
+| c609 | E 副題：別の図（c609＝m23:bldg・cc09＝m23:fake）なのに副題が同じ「判決の判断」＝実見の違い（形・数・位置）で書き分け＝決め方：机上＋シートの絵 |  | 🔴 未（原寸の帳に無い） | 机上：cc09（別の図）と同じ副題「判決の判断」→c609「判決が求めた強さ」・cc09「判決が認めた不正」に書き分け（直した） |
+| c201 | D 見え方：見出し「2つの棟」×終わりのコマは1つの棟の側面の外観（2つの棟が並んで見えない・640px）＝原寸で（⑤b-7 §5-6 の持ち越し）＝決め方：原寸→見えなければ見出しを替える |  | ✓ | 原寸（crop09・頭と終わり）：1つの棟の正面だけ（2つの棟は並ばない）→見出し「建物の形」・副題を c101 と同じ「崩れる前の三豊百貨店（1995年6月）」に（直した） |
+| c208 | C 原寸：イメージの写真の寄り1.9倍のやわらかさ（⑤b-7 §5-5）＋終わりのコマの下端に窓（扉）の枠の上端が入る（PLAN の注「部屋の家具と窓は外す」） |  | ✓ | 原寸（crop10）：1.9倍でも天井のひびは読める・下端の枠は部屋の一部（家具と窓は出ない）→そのまま |
+| c214 | E 副題：「崩れた現場に残った柱の列（1995年）」×640px ではショベル・隊員・煙が主で柱の列が見えない＝決め方：原寸で柱の列が写るか（無ければ写っている物で副題） |  | ✓ | 原寸（crop06）：c705 と同じショベルの別の写真・柱は奥に2〜3本→副題「瓦礫を崩すショベルと、奥に残った柱」（直した） |
+| c218 | D 見え方：右の札3つ（閉めた所・開いていた所・下の階）が色の見本も引き出し線も無く B棟の5・4・3階の高さに並ぶ＝B棟を指して読める（閉めたのは A棟5階と4階の貴金属）＝決め方：SPEC の札の座標＋原寸 |  | 🔴 未（原寸の帳に無い） | 机上（rtags23.py）：札 r1 が B棟の右の面の4階の高さ＝閉めた所（A棟）が B棟を指して読めた→札を「A棟の閉めた所」に（直した） |
+| c105 | C 事実：副題「崩れた北の棟と、残った南の棟」の南北＝PLAN の注「南北の名乗りは ⑤b で焼いた絵を原寸で」の決着の記録が引き継ぎ（⑤b-1〜⑤b-7）に見当たらない＝決め方：記録を探す→無ければ原寸（看板の棟・崩れた側の位置） |  | ✓ | 原寸（crop08）：手前の看板の棟が崩れずに立ち、その奥が崩れている＝崩れなかった B棟（南）と崩れた A棟（北）＝名乗りは正しい→そのまま |
+| c307 | C 原寸：ハングル（Noto Sans KR）の字形と下線（640px では正しく見える）＝⑤b-3 §5-7 の持ち越し |  | ✓ | 原寸（crop11）：ハングルの字形と下線は正しい・名前と職の欄は帯で隠れる→そのまま |
+| c311 | C 原寸：イメージの写真の寄り1.7倍のやわらかさ（⑤b-7 §5-5）＋終わりのコマの右上の隅に木の端らしき物（PLAN の注「上の椰子の木は外す」） |  | ✓ | 原寸（crop10）：1.7倍でも鋼材と棚は読める・右上の木はわずか→そのまま |
+| c405 | E 副題×台本：「崩れた床の梁と瓦礫」の「梁」が台本の「柱と柱をつなぐ梁を使わない作り」（c214・c404・c408 の語り）とぶつかる＝写っているピンクの部材は外壁かもしれない＝決め方：原寸で写っている物→副題 |  | ✓ | 原寸（crop05）：ピンクの部材は青い帯の入った外壁（梁ではない）→副題「崩れたピンクの外壁と瓦礫」（直した） |
+| c407 | D 見え方：右の札3つ（まず屋上と5階の床・下の階が次々に・重さが増えた階）が B棟の右の端に B棟の5・3・1階の高さで並ぶ＝崩れていない B棟を指して読める／「重さが増えた階」が1階の高さ（語りは屋上と5階）＝決め方：SPEC の札の座標＋原寸（c218 と同じ型） |  | 🔴 未（原寸の帳に無い） | 机上：札3つが B棟の右・重さの札が B棟の1階の高さ（印は A棟の屋上と5階）→「まずA棟の屋上と5階の床」・重さの札を y414 へ上げ「（屋上と5階）」を添えた（直した） |
+| c410 | E 副題・重なり：c102 と同じ向きの空撮（上から穴・左右にピンクの壁）＝dHash 37/64・aHash 91/256＝別の写真だが構図が似る＝PLAN の注「c102 と同じ構図でないかを取得の後に照合」の決着の記録なし＝決め方：原寸で並べて副題の書き分け（c102「崩れた北の棟の跡」・c410「地下まで抜けた穴」） |  | ✓ | 原寸（crop07）：c102 と別の写真（高さと向きが違う）・副題は既に書き分け（穴／北の棟の跡）→そのまま |
 | c420 | F カズヤくんの目（⑤b-3 §5-6 の持ち越し）：夜の灯り・車・クレーンの模式＝640px では柱・斜めの線・光の円錐の抽象形で「夜の救助の現場」と読みにくい・「?」の意味が絵だけでは分からない |  | 🔴 未（原寸の帳に無い） | ✅ カズヤくん 2026-10-19「そのまま」＝直さない（ca02 は Claude の推奨＝直す、に対してそのまま） |
-| c513 | D 見え方：札「生きて助け出された」が7月15日のマスのすぐ右に置かれ、印（黄の枠）は7月9日のマス＝15日を指して読める（15日も救出の日＝c515）＝決め方：SPEC の札の座標＋原寸 |  |  |  |
-| c514 | C 原寸：右の中ほどの白い物（袋か人か）と私人の顔＝PLAN の注「原寸で私人（助け出された人）の顔が無いか（§0-3）」の決着の記録なし |  |  |  |
-| c515 | C 原寸：PLAN の注「⚠ 原寸」が残る（⑤b-7 の原寸の決着に c515 は無い）＝隙間の中の人の顔・横たわる人が無いか |  |  |  |
-| c522 | C 原寸：輪になった隊員が中で何かを運んでいるように見える（担架・覆われた遺体か）＝決まり「覆われた遺体・担架の搬送は遠景だけ」・BY-SA は袋の写る点を使わない＝原寸で何を運ぶか |  |  |  |
-| c523 | E 副題×台本：「クレーンと崩れた2つの棟の断面」×台本（崩れたのは A棟と通路・B棟は残った＝c412）＝「崩れた2つの棟」と読める＝写っているのが A棟の北と南の壁か B棟の切れた面か＝原寸で写っている物→副題 |  |  |  |
-| c608 | D 見え方：見出し「許可のときの5階」×手前の工事中のビル（PLAN の注＝三豊ではない）＝三豊の工事の写真と取り違えやすい（副題「工事中のビルと、奥の瑞草洞の法院（1995年）」は三豊でないと言っていない）＝決め方：見出しか副題の書き方（机上） |  |  |  |
-| c614 | D 見え方：右の札（仮の使用の承認・途中の検査なし）が B棟の5・4階の高さに並ぶ（色を付けたのは1〜3階と地下1階）＝c218・c407 と同じ型（m23 の右の札の並び）＝決め方：SPEC の札の座標＋原寸 |  |  |  |
-| c617 | C 原寸：尺の頭の左上のマネキンか広告の人の絵（⑤b-7 §5-7 の持ち越し・終わりのコマには写らない）＝⑤b-7 の途中のコマ（at の頭）を原寸で |  |  |  |
-| c705 | E 重なり・副題：c214 と同じ場面に見える（橙のショベル・隊員・煙＝#39・#40）＝dHash 28/64・aHash 114/256＝別の写真＋副題「瓦礫の向こうに並ぶ柱」の柱の並びが 640px で見えない（c214「残った柱の列」も同じ）＝決め方：原寸で2枚を並べる |  |  |  |
-| c714 | E 副題：「倒れた太い柱の折れ口（1995年）」×640px では柱が立って見える（真ん中の太い柱・左の柱）＝決め方：原寸で倒れた柱と折れ口が写るか（無ければ写っている物で） |  |  |  |
+| c513 | D 見え方：札「生きて助け出された」が7月15日のマスのすぐ右に置かれ、印（黄の枠）は7月9日のマス＝15日を指して読める（15日も救出の日＝c515）＝決め方：SPEC の札の座標＋原寸 |  | 🔴 未（原寸の帳に無い） | 机上：7月9日は日曜の列（左端）・札は右の外＝7月15日の隣→札を7月9日のマスの左の外へ（直した） |
+| c514 | C 原寸：右の中ほどの白い物（袋か人か）と私人の顔＝PLAN の注「原寸で私人（助け出された人）の顔が無いか（§0-3）」の決着の記録なし |  | ✓ | 原寸（crop02）：右の白い物＝瓦礫の編み袋を持つ手・顔は隊員と軍（公的）・助け出された人は写らない→そのまま |
+| c515 | C 原寸：PLAN の注「⚠ 原寸」が残る（⑤b-7 の原寸の決着に c515 は無い）＝隙間の中の人の顔・横たわる人が無いか |  | ✓ | 原寸（crop02）：隙間の隊員と軍・横たわる人なし→そのまま |
+| c522 | C 原寸：輪になった隊員が中で何かを運んでいるように見える（担架・覆われた遺体か）＝決まり「覆われた遺体・担架の搬送は遠景だけ」・BY-SA は袋の写る点を使わない＝原寸で何を運ぶか |  | ✓ | 原寸（crop01）：橙のベストの作業員が輪になって瓦礫を持ち上げる・担架と覆われた遺体なし（奥の袋は瓦礫の袋）→そのまま |
+| c523 | E 副題×台本：「クレーンと崩れた2つの棟の断面」×台本（崩れたのは A棟と通路・B棟は残った＝c412）＝「崩れた2つの棟」と読める＝写っているのが A棟の北と南の壁か B棟の切れた面か＝原寸で写っている物→副題 |  | ✓ | 原寸（crop05）：崩れ残った建物の両端（どちらの棟かは絵から言えない）→副題「クレーンと、崩れ残った建物の両端」（直した） |
+| c608 | D 見え方：見出し「許可のときの5階」×手前の工事中のビル（PLAN の注＝三豊ではない）＝三豊の工事の写真と取り違えやすい（副題「工事中のビルと、奥の瑞草洞の法院（1995年）」は三豊でないと言っていない）＝決め方：見出しか副題の書き方（机上） |  | 🔴 未（原寸の帳に無い） | 机上：副題で「工事中の別のビル」と言う（直した） |
+| c614 | D 見え方：右の札（仮の使用の承認・途中の検査なし）が B棟の5・4階の高さに並ぶ（色を付けたのは1〜3階と地下1階）＝c218・c407 と同じ型（m23 の右の札の並び）＝決め方：SPEC の札の座標＋原寸 |  | 🔴 未（原寸の帳に無い） | 机上：札が B棟の4・5階の高さ（色は地下1階〜地上3階）→札を1段ずつ下げ（r2・r3）・✕ を y680 へ（直した） |
+| c617 | C 原寸：尺の頭の左上のマネキンか広告の人の絵（⑤b-7 §5-7 の持ち越し・終わりのコマには写らない）＝⑤b-7 の途中のコマ（at の頭）を原寸で |  | ✓ | 原寸（crop11＝⑤b-7 の at の頭）：左上に広告のモデル2人の顔（約40px）→頭の窓を終わりの窓の内側へ（寄り 1.55→1.45・直した） |
+| c705 | E 重なり・副題：c214 と同じ場面に見える（橙のショベル・隊員・煙＝#39・#40）＝dHash 28/64・aHash 114/256＝別の写真＋副題「瓦礫の向こうに並ぶ柱」の柱の並びが 640px で見えない（c214「残った柱の列」も同じ）＝決め方：原寸で2枚を並べる |  | ✓ | 原寸（crop06）：奥と右に立つ柱が見える（副題どおり）・c214 とは副題で書き分け→そのまま |
+| c714 | E 副題：「倒れた太い柱の折れ口（1995年）」×640px では柱が立って見える（真ん中の太い柱・左の柱）＝決め方：原寸で倒れた柱と折れ口が写るか（無ければ写っている物で） |  | ✓ | 原寸（crop08）：太い柱は倒れきらず傾き、上の端に鉄筋がむき出し→副題「傾いた太い柱と、むき出しの鉄筋」（直した） |
 | c806 | F カズヤくんの目（⑤b-4 §5-3 の持ち越し）：人の形（顔なし・1人65キロとして・赤い1平方メートルに6人／青に4人）＝mech23 の「人は描かない」の例外 |  | 🔴 未（原寸の帳に無い） | ✅ カズヤくん 2026-10-19「そのまま」＝直さない（ca02 は Claude の推奨＝直す、に対してそのまま） |
-| c901 | C 原寸：真ん中で隊員が囲んで扱う白い物（袋・覆われた人か）＝BY-SA は横たわる人・袋の写る点を使わない・覆われた遺体は遠景だけ＝原寸で何か |  |  |  |
-| c911 | C 原寸：手前に並んだヘルメットの一団が私人か（PLAN の注「⚠ 原寸で手前の一団が私人か」の決着の記録なし） |  |  |  |
+| c901 | C 原寸：真ん中で隊員が囲んで扱う白い物（袋・覆われた人か）＝BY-SA は横たわる人・袋の写る点を使わない・覆われた遺体は遠景だけ＝原寸で何か |  | ✓ | 原寸（crop01）：白い物＝防水のシート・隊員が油圧の道具を扱う・覆われた人なし→そのまま |
+| c911 | C 原寸：手前に並んだヘルメットの一団が私人か（PLAN の注「⚠ 原寸で手前の一団が私人か」の決着の記録なし） |  | ✓ | 原寸（crop03）：手前の一団は制服とヘルメットの警備と消防（公的・マスク）→そのまま |
 | ca02 | F カズヤくんの目（⑤b-5 §5-3 の持ち越し）：「合図の記録」の黄の帯が竣工（1990年7月）から崩れた日まで5年の全部に引かれ、合図がずっと続いたように読める（語り「そのあいだに、合図は何度か記録されている」） |  | 🔴 未（原寸の帳に無い） | ✅ カズヤくん 2026-10-19「そのまま」＝直さない（ca02 は Claude の推奨＝直す、に対してそのまま） |
-| ca08 | A 事実の照合（⑤b-5 §5-4 の持ち越し）：照明の売り場の棟は記録に無い＝両方の棟の4階を明るくした・語り「食堂街のすぐ下の4階」は A棟を思わせる＝白書の頁の画像に棟があるか |  |  |  |
-| ca15 | D 同じ図：ca13 と同じ図（m23:rule）の2回目が1カット後＝記憶 feedback-jiko-no-repeated-same-figure（22本目 ⑥ の試写・次回＝23本目から）＝機械の数え qa_out/ep23_c/views.txt（同じ見え方が3カット以内＝ほか c609→c614・c206→c210・c403→c413・c207→c212・c913→c916）＝決め方：机上（台本の設計＝点を足すだけ・残すか） |  |  |  |
-| cb03 | D 見え方：終わりのコマは画面のほぼ全部がモザイク（色の塊）＝640px では「行方を探す掲示板」と読めない（9.8秒）＝決め方：原寸でモザイクの外に何が残るか・頭のコマ（左の端）も＝カットごと残すか |  |  |  |
-| cb06 | C 原寸：展示の写真の中の小さな顔（⑤b-2 からの持ち越し）＋顔のモザイク（見る男性と子ども）の範囲と取りこぼし |  |  |  |
-| cb11 | A 事実の照合（⑤b-6 §5-3 の持ち越し）：年代の名「51〜60歳」と「60歳以上」で60歳が2つの欄にかかる（白書の表の書き方のまま）＝原文の表で確かめる |  |  |  |
+| ca08 | A 事実の照合（⑤b-5 §5-4 の持ち越し）：照明の売り場の棟は記録に無い＝両方の棟の4階を明るくした・語り「食堂街のすぐ下の4階」は A棟を思わせる＝白書の頁の画像に棟があるか |  | 🔴 未（原寸の帳に無い） | 机上：原文（K6-R p.30・K6-検 p.47）に棟の記載なし＝図の両方の棟の4階は記録どおり・語り「食堂街のすぐ下の4階」は階の話→そのまま |
+| ca15 | D 同じ図：ca13 と同じ図（m23:rule）の2回目が1カット後＝記憶 feedback-jiko-no-repeated-same-figure（22本目 ⑥ の試写・次回＝23本目から）＝機械の数え qa_out/ep23_c/views.txt（同じ見え方が3カット以内＝ほか c609→c614・c206→c210・c403→c413・c207→c212・c913→c916）＝決め方：机上（台本の設計＝点を足すだけ・残すか） |  | 🔴 未（原寸の帳に無い） | 机上：ca13 の図に三豊の点と「決まりの外」を足す台本の決め所＝見た目が変わる2回目→残す |
+| cb03 | D 見え方：終わりのコマは画面のほぼ全部がモザイク（色の塊）＝640px では「行方を探す掲示板」と読めない（9.8秒）＝決め方：原寸でモザイクの外に何が残るか・頭のコマ（左の端）も＝カットごと残すか |  | ✓ | 原寸（crop04）：升目の外に読める物なし→副題「名前と顔を隠した、行方を探す掲示板」で何の絵かを言う（直した・カットは残す） |
+| cb06 | C 原寸：展示の写真の中の小さな顔（⑤b-2 からの持ち越し）＋顔のモザイク（見る男性と子ども）の範囲と取りこぼし |  | ✓ | 原寸（crop04・12・15）：見る2人のモザイクは足りる・説明文の名前は字の高さ約8px＝読めない→そのまま／右の展示の写真の顔（生還者とみられる）→9枚を升目に（直した・mask23.tsv） |
+| cb11 | A 事実の照合（⑤b-6 §5-3 の持ち越し）：年代の名「51〜60歳」と「60歳以上」で60歳が2つの欄にかかる（白書の表の書き方のまま）＝原文の表で確かめる |  | 🔴 未（原寸の帳に無い） | 机上：白書 p.93 の表の名が「60세 이상」（10-19 に頁の画像で確かめた記録＝mech23 の AGES の注）＝表の書き方のまま→そのまま |
 | cb17 | F カズヤくんに1問：団地の垂れ幕（ハングル・全面で読める大きさ）に当時の市長の名を挙げる住民の抗議の文（cd01 にも同じ垂れ幕）＝公人・研究院の記録の写真＝Claude の推奨はそのまま |  | 🔴 未（原寸の帳に無い） | ✅ カズヤくん 2026-10-19「このまま使う」（推奨どおり）＝直さない |
 | cc05 | F カズヤくんの目（⑤b-6 §5-5 の持ち越し）：4つの札の下の「第6章・第7章・第8章」＝どの章で見たかは図の割り当てから＝語りにない補足の札 |  | 🔴 未（原寸の帳に無い） | ✅ カズヤくん 2026-10-19「そのまま」＝直さない（ca02 は Claude の推奨＝直す、に対してそのまま） |
-| cc08 | C 原寸：左の白い横断幕のハングル（何が書かれているか・人の名前が無いか）＝cb17 と同じ型 |  |  |  |
+| cc08 | C 原寸：左の白い横断幕のハングル（何が書かれているか・人の名前が無いか）＝cb17 と同じ型 |  | ✓ | 原寸（crop10）：横断幕は国会の環境フォーラムの政策シンポジウムの告知（人の名前なし）→そのまま |
 | cd01 | F カズヤくんに1問（cb17 と同じ）：団地の垂れ幕（ハングル）に当時の市長の名を挙げる住民の抗議の文・左の棟の垂れ幕も抗議の文＝公人・研究院の記録の写真＝Claude の推奨はそのまま |  | 🔴 未（原寸の帳に無い） | ✅ カズヤくん 2026-10-19「このまま使う」（推奨どおり）＝直さない |
-| cd06 | C 原寸：慰霊塔の右に立つ人たち（遺族か・顔の大きさ）＝PLAN の注は「席の人は後ろ姿」だけ（控えの 2301030101 は遺族の顔の寄りで使わない） |  |  |  |
-| cd07 | A 事実の照合（⑤b-6 §5-7 の持ち越し）：PLAN の出典の欄の2026年9月の見直しの報道＝⑥ の前に確かめる（6月に選んだ作品がそのあと変わっていないか） |  |  |  |
-| cd09 | C 原寸（型③ 札の切れ）：右の「見る前から」が右の端に寄り（640px で端まで約25px）、問いの文が2つに割れて読める＝原寸で切れていないか・ほかの回の同じパネルの並びと比べる |  |  |  |
+| cd06 | C 原寸：慰霊塔の右に立つ人たち（遺族か・顔の大きさ）＝PLAN の注は「席の人は後ろ姿」だけ（控えの 2301030101 は遺族の顔の寄りで使わない） |  | ✓ | 原寸（crop03・12〜14）：参列者の横顔と立つ人の正面が約25〜40px＝見分けられる→顔だけモザイク21か所・出典の行に「改変：顔にモザイク」（直した・かけたあと crop16 で取りこぼし1か所を足した） |
+| cd07 | A 事実の照合（⑤b-6 §5-7 の持ち越し）：PLAN の出典の欄の2026年9月の見直しの報道＝⑥ の前に確かめる（6月に選んだ作品がそのあと変わっていないか） |  | 🔴 未（原寸の帳に無い） | 机上：2026-09 の報道＝区の反発で設置は保留（ヘラルド経済 2026-09-19）。語りと図は「2026年6月に作品を選んだ」まで＝食い違わない→そのまま |
+| cd09 | C 原寸（型③ 札の切れ）：右の「見る前から」が右の端に寄り（640px で端まで約25px）、問いの文が2つに割れて読める＝原寸で切れていないか・ほかの回の同じパネルの並びと比べる |  | ✓ | 原寸（crop10）：「見る前から」の右端 1840px＝本体の右 1848 の内・切れなし→そのまま |

diff --git a/qa_out/ep23_qa_look1.md b/qa_out/ep23_qa_look1.md
@@ -76,3 +76,20 @@
 | 4 | C 13＋E 8：原寸の切り出しを1枚に並べる（1:1・1280×1552 まで）＝人（c514・c515・c522・c901・c911・cb06・cd06）・字（c307・cc08・cd09）・やわらかさ（c208・c311）・頭のコマ（c617 の at）・写っている物（c214×c705 を並べる・c405・c410×c102 を並べる・c523・c714）＝約5〜7枚 |
 | 5 | 直す（Edit／Write）→ 門番を1本ずつ → qa_all → commit → push → Actions 1回（`at=` に直したカットの途中）→ sub_center → **差分だけ見る（周2）** |
 | 6 | 周2で出た新しい粗は ⑥ の前の注意へ（周3はしない） |
+
+## 8. ⑤c' 決着（チャット16・2026-10-19）＝疑い39件 未決0（正本＝`ep23_suspects.md`）
+- 見た物＝原寸の切り出し16枚（`qa_out/ep23_c2/crop01〜16.png`＝1:1・顔と展示は元の画像を2〜3倍＋10px の目盛り・md5 は `ep23_c2/seen.tsv`）＋小さな確かめ1枚（cd06 の足した1か所）
+- 机上の道具＝`ep23_c2/rtags23.py`（m23 の右の札 r1〜r4 を使う全カットの札の高さ×その段の色の部品＝画像0）・`ep23_c2/cropsheet23.py`（22本目 cropsheet22 を移し、3倍と 50px ごとの座標の数を足した）
+
+| 分類 | 直した（16カット） | そのまま（決めた理由は帳） |
+|---|---|---|
+| A 机上 | — | c105（原寸で B棟＝南が崩れず立つ＝名乗りは正しい）・ca08（原文に棟なし）・cb11（白書の表の名「60세 이상」のまま）・cd07（9月の設置保留の報道と語り「6月に選んだ」は食い違わない） |
+| D 見え方 | 🔧 c218「A棟の閉めた所」・🔧 c407「まずA棟の屋上と5階の床」＋重さの札を y414 へ・「（屋上と5階）」・🔧 c614 札を r2・r3 へ＋✕ を y680（mech23 の chk）・🔧 c513 札を7月9日のマスの左の外（415, 668, end）・🔧 c608 副題「工事中の別のビル…」・🔧 cb03 副題「名前と顔を隠した、行方を探す掲示板」・🔧 c201 見出し「建物の形」＋副題を c101 と同じに | ca15（台本の決め所＝点を足す2回目） |
+| 型の全カット（右の札） | — | c204・c719（札の色＝部品の色）・c917（A棟のピンク・赤）・c209（会社の橙の輪）・c317・c609・c819・c919・ca18（建物全体の札・問い）＝`rtags.txt` |
+| C 原寸（人） | 🔧 cd06 顔だけモザイク21か所＋出典の行「改変：顔にモザイク」・🔧 cb06 右の展示の写真9枚を升目（mask23.tsv→`ep23_assets.py build`→`credits --write`→`check_photo_mask --record`＝変わった画像は2枚だけ） | c514（白い物＝瓦礫の編み袋）・c515・c522（担架・覆われた遺体なし）・c901（白い物＝シート）・c911（制服の警備と消防） |
+| C 原寸（字ほか） | 🔧 c617 頭の窓を終わりの窓の内側へ（寄り 1.55→1.45＝広告の顔を外す） | c307・cc08（政策シンポジウムの告知）・cd09（右端 1840＜1848）・c208・c311 |
+| E 副題 | 🔧 c405「崩れたピンクの外壁と瓦礫」・🔧 c523「クレーンと、崩れ残った建物の両端」・🔧 c214「瓦礫を崩すショベルと、奥に残った柱」・🔧 c714「傾いた太い柱と、むき出しの鉄筋」・🔧 c609「判決が求めた強さ」／cc09「判決が認めた不正」 | c705（並ぶ柱が見える）・c410（c102 と別の写真・副題は書き分け済み） |
+
+- ⚠ 踏んだ落とし穴：PLAN の文（一重引用符）に「⑤c'」を書くと `'` で文字列が閉じて章ファイルが読めなくなる（cb.py・cd.py＝qa_all の cuts と textscreens が鳴った）＝`\'` で書く
+- ⚠ `check_photo_mask --record` は触っていない点の `when` も今日の日付に書き換える＝missing_board_01・sire_52400 は 10-18 に戻した
+- PLAN の副題（一覧から写した文）も SPEC と同じ言葉に直した（c201・c214・c405・c523・c608・c714・cb03）＋cd06・cb06 の注にモザイク
